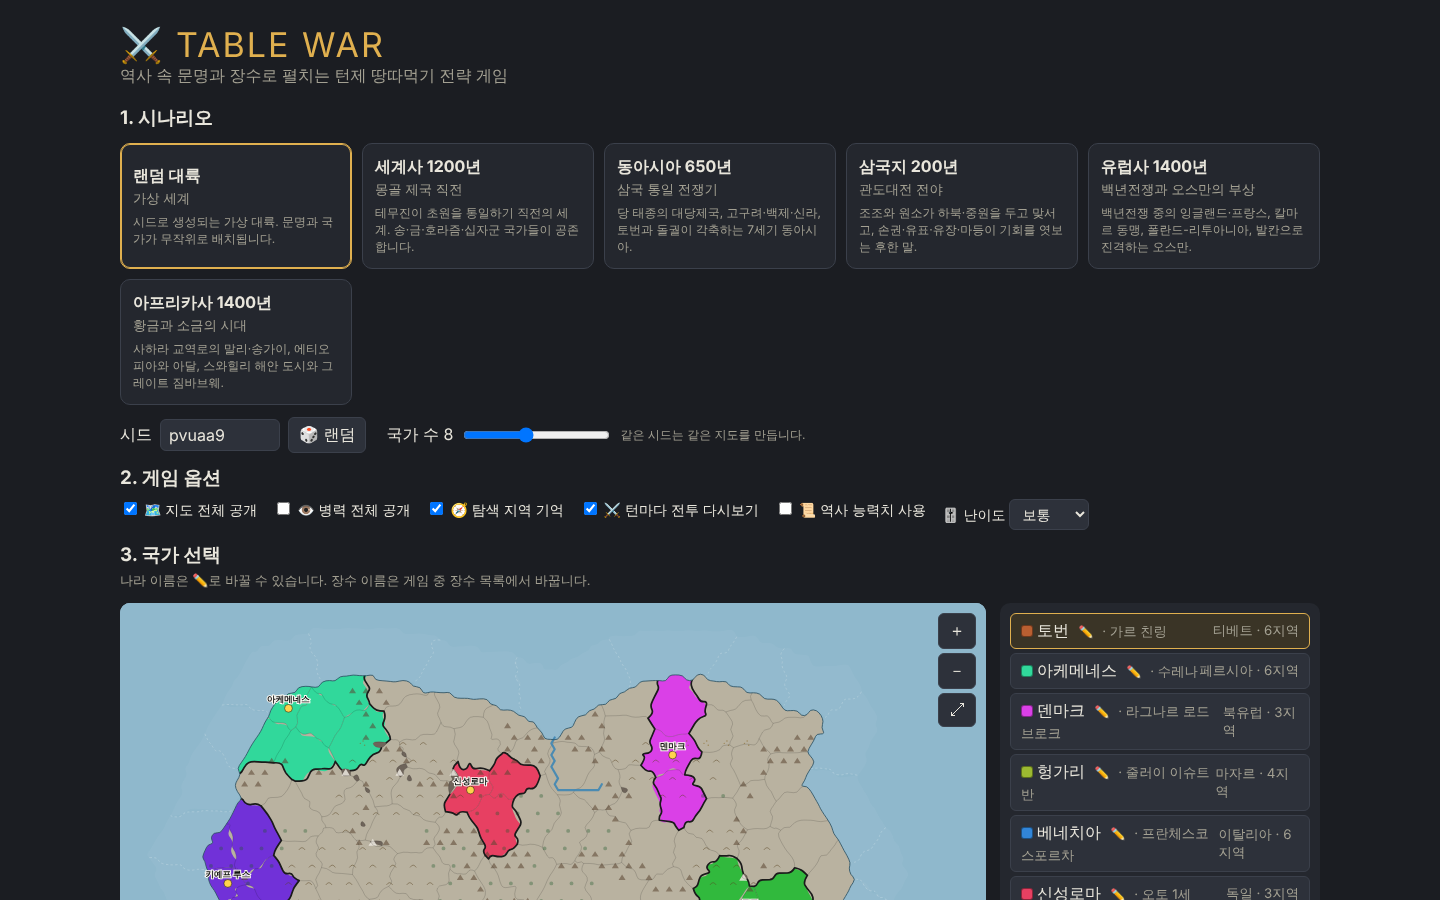
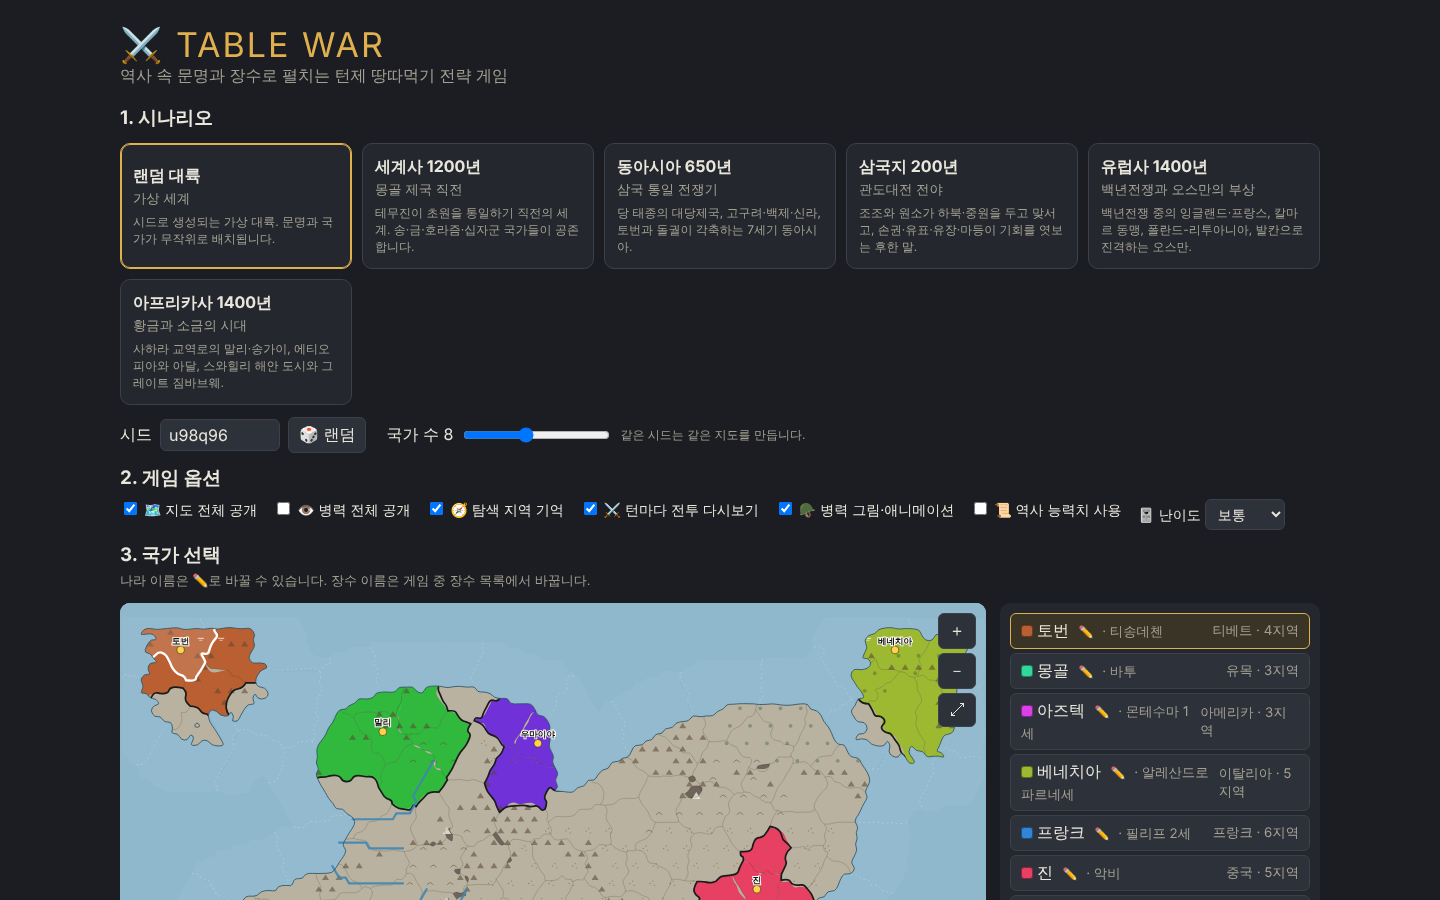
Break world-map stalemate (boxed-in AI breaks treaties, alliance saturation, map-scaled AP cap, coalition gate), troop-size soldier art with idle animation, march/clash/capture animations

diff --git a/src/components/MapView.jsx b/src/components/MapView.jsx
@@ -4,7 +4,125 @@ import { WEATHER } from '../game/weather.js';
 
 const NEUTRAL = '#b9b2a0';
 
-export default function MapView({ world, regions, nations, selected, targets, onClick, onContext, genCount, compact, battles, fmt = (n) => n, view, showTroops, weather, cutSet, focus, flash }) {
+// 병력 규모 단계: 0(없음)~5(대군, 깃발)
+export const armyTier = (t) => (t <= 0 ? 0 : t < 3000 ? 1 : t < 10000 ? 2 : t < 30000 ? 3 : t < 80000 ? 4 : 5);
+
+// 병사 한 명 (발끝이 원점, 위로 그려짐)
+function Soldier({ u, color, x = 0, delay = 0 }) {
+  return (
+    <g transform={`translate(${x},0)`}>
+      <g className="soldier" style={{ animationDelay: `${delay}s` }}>
+        <line x1={u * 0.62} y1={u * 0.1} x2={u * 0.62} y2={-u * 2.35} stroke="#5a4630" strokeWidth={u * 0.13} />
+        <path d={`M${u * 0.47} ${-u * 2.2}L${u * 0.62} ${-u * 2.6}L${u * 0.77} ${-u * 2.2}Z`} fill="#cfd3d6" stroke="#222" strokeWidth={u * 0.05} />
+        <path d={`M${-u * 0.42} ${-u * 1.2}L${u * 0.42} ${-u * 1.2}L${u * 0.55} 0L${-u * 0.55} 0Z`} fill={color} stroke="#fffdf6" strokeWidth={u * 0.3} paintOrder="stroke" />
+        <path d={`M${-u * 0.42} ${-u * 1.2}L${u * 0.42} ${-u * 1.2}L${u * 0.55} 0L${-u * 0.55} 0Z`} fill="none" stroke="#1a1a1a" strokeWidth={u * 0.08} />
+        <circle cy={-u * 1.55} r={u * 0.33} fill="#f1d3a5" stroke="#1a1a1a" strokeWidth={u * 0.08} />
+        <path d={`M${-u * 0.36} ${-u * 1.6}A${u * 0.36} ${u * 0.36} 0 0 1 ${u * 0.36} ${-u * 1.6}Z`} fill="#555" />
+      </g>
+    </g>
+  );
+}
+
+// 병력 규모 그림: 1~4명, 5단계는 군기까지
+export function Army({ tier, color, u, y = 0 }) {
+  if (!tier) return null;
+  const n = Math.min(4, tier);
+  const gap = u * 1.05;
+  const x0 = -((n - 1) * gap) / 2;
+  return (
+    <g transform={`translate(0,${y})`} className="army">
+      <ellipse cy={-u * 0.05} rx={((n - 1) * gap) / 2 + u * (tier >= 5 ? 1.9 : 0.95)} cx={tier >= 5 ? -gap * 0.45 : 0} ry={u * 0.42} fill="#fffdf6" opacity={0.9} stroke={color} strokeWidth={u * 0.12} />
+      {tier >= 5 && (
+        <g transform={`translate(${x0 - gap * 0.9},0)`}>
+          <line y1={u * 0.1} y2={-u * 3.1} stroke="#3b2b1a" strokeWidth={u * 0.15} />
+          <path className="banner" d={`M0 ${-u * 3.1}L${u * 1.3} ${-u * 2.8}L0 ${-u * 2.3}Z`} fill={color} stroke="#1a1a1a" strokeWidth={u * 0.07} />
+        </g>
+      )}
+      {Array.from({ length: n }, (_, i) => (
+        <Soldier key={i} u={u} color={color} x={x0 + i * gap} delay={(i * 0.37) % 1.2} />
+      ))}
+    </g>
+  );
+}
+
+// 이동·공격 애니메이션 층: 지도 전체를 다시 그리지 않도록 자체 상태로 프레임 갱신
+function MoveLayer({ world, nations, moves, visible, outline, s }) {
+  const [tokens, setTokens] = useState([]);
+  const [now, setNow] = useState(0);
+  const last = useRef(null);
+  useEffect(() => {
+    if (!moves) return;
+    const maxId = moves.length ? moves[moves.length - 1].id : 0;
+    if (last.current === null || maxId < last.current) {
+      last.current = maxId; // 처음 열거나 새 게임: 지난 이동은 재생하지 않음
+      return;
+    }
+    const fresh = moves.filter((m) => m.id > last.current && (visible(m.from) || visible(m.to))).slice(-40);
+    last.current = maxId;
+    if (!fresh.length) return;
+    if (typeof window !== 'undefined' && window.matchMedia?.('(prefers-reduced-motion: reduce)').matches) return;
+    const t0 = performance.now();
+    setTokens((ts) => [...ts, ...fresh.map((m, i) => ({ ...m, start: t0 + i * 110 }))]);
+  }, [moves]); // eslint-disable-line react-hooks/exhaustive-deps
+  const active = tokens.length > 0;
+  useEffect(() => {
+    if (!active) return;
+    let raf;
+    const loop = (t) => {
+      setNow(t);
+      setTokens((ts) => {
+        const keep = ts.filter((x) => t - x.start < 1700);
+        return keep.length === ts.length ? ts : keep;
+      });
+      raf = requestAnimationFrame(loop);
+    };
+    raf = requestAnimationFrame(loop);
+    return () => cancelAnimationFrame(raf);
+  }, [active]);
+  const u = s * 0.5;
+  return (
+    <g pointerEvents="none">
+      {tokens.map((m) => {
+        const t = (now - m.start) / 1000;
+        if (t < 0) return null;
+        const a = world.regions[m.from], b = world.regions[m.to];
+        const col = nations[m.n]?.color || '#c00';
+        const p = Math.min(1, t / 0.85);
+        const e = p < 0.5 ? 2 * p * p : 1 - (-2 * p + 2) ** 2 / 2;
+        const x = a.cx + (b.cx - a.cx) * e, y = a.cy + (b.cy - a.cy) * e;
+        const hop = Math.abs(Math.sin(p * Math.PI * 5)) * u * 0.35;
+        const fight = m.k === 'win' || m.k === 'lose' || m.k === 'siege';
+        const after = t - 0.85;
+        return (
+          <g key={m.id}>
+            {p < 1 && (
+              <>
+                <line x1={a.cx} y1={a.cy} x2={x} y2={y} stroke={col} strokeWidth={s * 0.18} strokeDasharray={`${s * 0.3} ${s * 0.3}`} opacity={0.7} />
+                <g transform={`translate(${x},${y - hop})`}>
+                  <ellipse rx={u * 1.6} ry={u * 0.45} fill="#000" opacity={0.25} transform={`translate(0,${hop})`} />
+                  <Army tier={Math.min(3, armyTier(m.c))} color={col} u={u} />
+                  {m.k === 'aid' && <text y={-u * 3} fontSize={s * 0.8} textAnchor="middle">🤝</text>}
+                </g>
+              </>
+            )}
+            {p >= 1 && fight && after < 0.8 && (
+              <g transform={`translate(${b.cx},${b.cy}) scale(${0.6 + after * 1.4})`} opacity={1 - after / 0.8}>
+                <text fontSize={s * 1.8} textAnchor="middle" dy={s * 0.6}>
+                  {m.k === 'lose' ? '🛡' : '💥'}
+                </text>
+              </g>
+            )}
+            {p >= 1 && m.k === 'win' && outline[m.to] && after < 0.85 && (
+              <path d={outline[m.to]} fill={col} fillOpacity={0.45 * (1 - after / 0.85)} fillRule="evenodd" stroke={col} strokeWidth={3} opacity={1 - after / 0.85} />
+            )}
+          </g>
+        );
+      })}
+    </g>
+  );
+}
+
+export default function MapView({ world, regions, nations, selected, targets, onClick, onContext, genCount, compact, battles, fmt = (n) => n, view, showTroops, weather, cutSet, focus, flash, moves, showArmy = true }) {
   const clipId = 'land' + useId().replace(/:/g, '');
   const svgRef = useRef(null);
   const [vb, setVb] = useState([0, 0, world.W, world.H]);
@@ -137,7 +255,7 @@ export default function MapView({ world, regions, nations, selected, targets, on
   }
 
   return (
-    <div className="mapwrap" style={{ height: '100%' }}>
+    <div className={'mapwrap' + (zoomed || world.landCount < 170 ? ' live' : '')} style={{ height: '100%' }}>
       <svg
         ref={svgRef}
         viewBox={vb.join(' ')}
@@ -236,6 +354,7 @@ export default function MapView({ world, regions, nations, selected, targets, on
           {selected !== null && selected !== undefined && world.regions[selected].sea && <path d={statics.outline[selected]} fill="#ffffff22" fillRule="evenodd" stroke="#fff" strokeWidth={3} />}
           {seaLines}
           {arrows}
+          {!compact && moves && showArmy && <MoveLayer world={world} nations={nations} moves={moves} visible={(rid) => viewOf(rid) === 'visible'} outline={statics.outline} s={s} />}
           {!compact &&
             world.regions.map((r) => {
               const reg = regions[r.id];
@@ -273,6 +392,7 @@ export default function MapView({ world, regions, nations, selected, targets, on
               const icons = (b.walls ? `🏰${b.walls < 3 ? b.walls : ''}` : '') + (b.market ? '💰' : '') + (b.port ? '⚓' : '') + (b.barracks ? '⚔' : '');
               return (
                 <g key={r.id} transform={`translate(${r.cx},${r.cy})`}>
+                  {showArmy && own !== null && t !== '?' && <Army tier={armyTier(reg.troops)} color={col} u={s * 0.5} y={-s * 0.78} />}
                   <rect x={-bw / 2} y={-s * 0.8} width={bw} height={s * 1.6} rx={s * 0.8} fill="#fffdf6" stroke={col} strokeWidth={s * 0.22} />
                   {wx && wx.icon && (
                     <text x={-bw / 2 - s * 0.1} dy={-s * 0.75} fontSize={s * 0.75} textAnchor="middle">
@@ -304,7 +424,7 @@ export default function MapView({ world, regions, nations, selected, targets, on
                     </text>
                   )}
                   {zoomed && (
-                    <text dy={-s * 1.25} fontSize={s * 0.62} textAnchor="middle" fill="#111" stroke="#fffdf6" strokeWidth={s * 0.18} paintOrder="stroke">
+                    <text dy={showArmy && own !== null && reg.troops > 0 ? -s * 2.4 : -s * 1.25} fontSize={s * 0.62} textAnchor="middle" fill="#111" stroke="#fffdf6" strokeWidth={s * 0.18} paintOrder="stroke">
                       {reg.name}
                     </text>
                   )}

diff --git a/src/game/engine.js b/src/game/engine.js
@@ -44,7 +44,9 @@ export function isVassalOf(s, a, b) {
 export function computeMaxAp(s, nid) {
   const regions = nationRegions(s, nid).length;
   const fast = Math.min(2, nationTrait(s, nid, '신속'));
-  let ap = 3 + Math.min(7, Math.floor(regions / 6)) + fast;
+  // 큰 지도(지역이 잘게 나뉨)는 행동력 상한도 비례해서 늘림
+  const cap = Math.round(7 * Math.max(1, landCount(s) / 150));
+  let ap = 3 + Math.min(cap, Math.floor(regions / 6)) + fast;
   if (s.nations.some((o) => o.alive && o.id !== nid && isVassalOf(s, nid, o.id))) ap -= 1;
   return Math.max(2, ap);
 }
@@ -492,6 +494,13 @@ export function gainExp(s, g, amt) {
   }
 }
 
+// 지도 애니메이션용 이동 기록 (턴마다 초기화)
+function trackMove(s, from, to, nid, count, kind) {
+  s.moveSeq = (s.moveSeq || 0) + 1;
+  (s.moves = s.moves || []).push({ id: s.moveSeq, from, to, n: nid, c: count, k: kind });
+  if (s.moves.length > 200) s.moves.shift();
+}
+
 export function doMove(s, world, nid, from, to, count, genIds = [], opts = {}) {
   const err = moveCheck(s, world, nid, from, to, count, genIds);
   if (err) return fail(err);
@@ -508,6 +517,7 @@ export function doMove(s, world, nid, from, to, count, genIds = [], opts = {}) {
     tr.troops += count;
     s.opinion[tr.owner][nid] += Math.min(20, count / 2000);
     log(s, `🤝 ${n.name}이(가) 동맹국 ${s.nations[tr.owner].name}의 ${tr.name}에 원군 ${fmtTroops(count)}을 보냈습니다.`, [nid, tr.owner], 'diplo');
+    trackMove(s, from, to, nid, count, 'aid');
     return { ok: true, msg: `${tr.name}에 원군 ${fmtTroops(count)} 파견.` };
   }
   const leaveSea = () => {
@@ -529,6 +539,7 @@ export function doMove(s, world, nid, from, to, count, genIds = [], opts = {}) {
     }
     leaveSea();
     const verb = tr.sea && !fr.sea ? '승선' : fr.sea && !tr.sea ? '상륙' : '이동';
+    trackMove(s, from, to, nid, count, 'move');
     return { ok: true, msg: `${fr.name} → ${tr.name}: 병사 ${fmtTroops(count)} ${verb}.` };
   }
   const defender = tr.owner;
@@ -593,6 +604,7 @@ export function doMove(s, world, nid, from, to, count, genIds = [], opts = {}) {
       s.opinion[defender][nid] -= 15;
       for (const o of s.nations) if (o.alive && isVassalOf(s, defender, o.id) && o.id !== nid) s.opinion[o.id][nid] -= 10;
     }
+    trackMove(s, from, to, nid, count, kind);
     return { ok: true, msg, report };
   };
   const assaultLoss = mode === 'assault' ? (tv(atkGens, '공성') && atkGens.some((g) => g.traits.some(([t, l]) => t === '공성' && l >= 2)) ? 1.05 : 1.5) : 1;

diff --git a/src/game/ai.js b/src/game/ai.js
@@ -5,7 +5,7 @@ import {
   buildCost, recruitChance, moveCheck, doRecruit, doExecute, doRelease, log, conscriptMax, conscriptCost, doRelief, reliefCost,
   RELIEF_COOLDOWN, doBuildEngine, engineCost, ENGINE_MAX, canSail, income, isVassalOf, governorOf, doRelocate,
 } from './engine.js';
-import { evaluateDeal, applyDeal, validateDeal, emptyDeal, describeDeal, annexCheck, doAnnex } from './diplomacy.js';
+import { evaluateDeal, applyDeal, validateDeal, emptyDeal, describeDeal, annexCheck, doAnnex, breakTreaty } from './diplomacy.js';
 
 const inCoalition = (s, id) => s.coalition && s.coalition.members?.includes(id);
 
@@ -425,9 +425,35 @@ function seekCoalition(s, world, nid, rng) {
   return true;
 }
 
+// 사방이 동맹·조약으로 막혀 칠 곳이 없으면, 가장 만만한 조약 이웃과 관계를 끊고 확장
+function breakOut(s, world, nid, rng) {
+  const n = s.nations[nid];
+  if (s.turn < 15 || n.isPlayer) return false;
+  const nbs = new Map();
+  let open = 0;
+  for (const r of nationRegions(s, nid)) for (const x of world.regions[r].neighbors) {
+    const t = s.regions[x.id];
+    if (t.sea || t.owner === nid) continue;
+    if (t.owner === null || hostile(s, nid, t.owner)) open++;
+    else nbs.set(t.owner, (nbs.get(t.owner) || 0) + 1);
+  }
+  if (open > 0 || !nbs.size || !rng.chance(0.35)) return false;
+  // 속국은 병합 대상이므로 제외, 국력이 가장 약한 조약국을 고름
+  const cands = [...nbs.keys()].filter((o) => !s.nations[o].isPlayer && getRel(s, nid, o).type !== 'vassal' && !(inCoalition(s, nid) && inCoalition(s, o)));
+  if (!cands.length) return false;
+  const o = cands.reduce((a, b) => (nationPower(s, b) < nationPower(s, a) ? b : a));
+  if (nationPower(s, o) > nationPower(s, nid) * 1.1) return false;
+  breakTreaty(s, nid, o);
+  s.opinion[nid][o] = Math.min(s.opinion[nid][o], -30);
+  n.goal = o;
+  n.goalSince = s.turn;
+  return true;
+}
+
 export function aiDiplomacy(s, world, nid) {
   const rng = stateRng(s);
   const n = s.nations[nid];
+  if (breakOut(s, world, nid, rng)) return;
   if (seekCoalition(s, world, nid, rng)) return;
   if (!rng.chance(0.18)) return;
   const others = s.nations.filter((o) => o.alive && o.id !== nid);

diff --git a/src/components/Modals.jsx b/src/components/Modals.jsx
@@ -787,10 +787,10 @@ export function HelpModal({ onClose }) {
     <Modal title="❓ 게임 방법" onClose={onClose} wide>
       <div className="help">
         <ul>
-          <li><b>목표</b>: 전체 육지의 60%(세계사 35%, 동아시아 50%)를 차지하거나 다른 모든 나라를 멸망·속국화하세요.</li>
+          <li><b>목표</b>: 전체 육지의 60%(세계사 35%, 동아시아 45%)를 차지하거나 다른 모든 나라를 멸망·속국화하세요.</li>
           <li><b>지역 숫자</b> = 주둔 병사 수. ♛ 수도, ★ 장수, 🏰💰⚓⚔ 건물, ✂ 보급 끊김, 빨간 점 반란 위험.</li>
           <li><b>시간</b>: 2턴이 한 계절, 8턴이 1년. 날씨는 매 턴 바뀝니다.</li>
-          <li><b>행동력(AP)</b>: 매 턴 3 + 영토 6곳당 1(최대 +7) + 신속 특성. 속국 -1, 배신 시 다음 턴 -2.</li>
+          <li><b>행동력(AP)</b>: 매 턴 3 + 영토 6곳당 1(최대 +7, 큰 지도는 더 많음) + 신속 특성. 속국 -1, 배신 시 다음 턴 -2.</li>
           <li><b>이동·공격</b>: 내 지역 선택 → [이동·공격] 또는 M → 인접 지역 클릭(우클릭으로 바로 열기). 육지는 최소 1명을 남겨야 합니다.</li>
           <li><b>바다</b>: 바다는 구역(점선)으로 나뉩니다. 항구(또는 수군 장수)가 있는 해안에서 승선 → 바다 구역을 한 칸씩 항해 → 해안에 상륙(-25%). 험한 해안은 절벽 상륙(-55%, 행동력 +1). 바다 날씨: 풍랑·순풍·용오름·해무·폭풍. 적 함대가 있는 구역은 해전으로 뚫어야 하고, 함대로 바닷길을 막을 수 있습니다. 바다의 함대는 매 턴 2%(폭풍 10%) 줄어듭니다. 내 함대가 있는 바다는 보급로가 됩니다.</li>
           <li><b>지형</b>: 숲 방어 +15%, 구릉 +25%, 험산 +50%·진입 AP+1, 고산(진한 회색)은 통행 불가. 강 건너 공격 -20%, 좁은 해협(도버·보스포루스 등) 건너기 -30%·AP+1.</li>

diff --git a/src/components/Setup.jsx b/src/components/Setup.jsx
@@ -17,7 +17,7 @@ export default function Setup({ onStart, onResume, hasSave }) {
   const [nationCount, setNationCount] = useState(8);
   const [player, setPlayer] = useState(0);
   const [error, setError] = useState('');
-  const [rules, setRules] = useState({ revealMap: true, revealTroops: false, rememberExplored: true, showBattles: true, histStats: false, difficulty: 'normal' });
+  const [rules, setRules] = useState({ revealMap: true, revealTroops: false, rememberExplored: true, showBattles: true, showArmy: true, histStats: false, difficulty: 'normal' });
   const [names, setNames] = useState({});
   const achieved = useMemo(loadAchievements, []);
   const scn = SCENARIOS.find((s) => s.id === scnId);
@@ -102,6 +102,7 @@ export default function Setup({ onStart, onResume, hasSave }) {
             ['revealTroops', '👁 병력 전체 공개', '끄면 시야 밖 지역의 병력은 ?로 표시'],
             ['rememberExplored', '🧭 탐색 지역 기억', '한 번 본 땅은 계속 지도에 표시 (지도 전체 공개를 껐을 때)'],
             ['showBattles', '⚔ 턴마다 전투 다시보기', '시야 안에서 벌어진 전투만, 건너뛰기 가능'],
+            ['showArmy', '🪖 병력 그림·애니메이션', '병력 규모에 따라 병사 그림(1~4명, 대군은 군기)을 보여주고 이동을 애니메이션으로 표시'],
             ['histStats', '📜 역사 능력치 사용', '끄면(기본) 장수 성향만 살리고 능력치는 나라마다 공평하게 무작위'],
           ].map(([k, label, tip]) => (
             <label key={k} title={tip}>

diff --git a/src/game/turn.js b/src/game/turn.js
@@ -57,7 +57,7 @@ function balanceOfPower(s, world) {
   if ((s.coalitionCooldown || 0) > s.turn) return;
   // 나라가 많은 지도에서 작은 1위에게까지 대동맹이 생기지 않도록 영토 비율 문턱(통일선의 40%)도 둠
   const topShare = nationRegions(s, top.id).length / landCount(s);
-  if (threat(top.id) > (s.turn >= 30 ? 2.1 : 2.5) && topShare >= (s.winShare || 0.6) * 0.4) {
+  if (threat(top.id) > (s.turn >= 30 ? 2.1 : 2.5) && topShare >= Math.max(0.2, (s.winShare || 0.6) * 0.4)) {
     if (prev !== top.id) {
       s.coalition = { target: top.id, since: s.turn };
       log(s, `⚔ ${top.name}의 패권에 맞서 대동맹이 결성되었습니다! 각국이 ${top.name}을(를) 공동의 적으로 삼습니다.`, s.nations.map((x) => x.id), 'diplo');
@@ -228,6 +228,7 @@ export function endTurn(s, world) {
   s.turnNews = [];
   s.turnEvents = [];
   s.battles = [];
+  s.moves = [];
   const rng = stateRng(s);
   const order = rng.shuffle(s.nations.filter((n) => n.alive && !n.isPlayer).map((n) => n.id));
   for (const id of order) {

diff --git a/src/styles.css b/src/styles.css
@@ -183,3 +183,10 @@ button.ghost { background: transparent; border-color: transparent; padding: 0 4p
 
 .flash { animation: flash 0.9s ease-in-out 6 alternate; pointer-events: none; }
 @keyframes flash { from { opacity: 1; } to { opacity: 0.15; } }
+
+/* 병사 그림: 제자리에서 살짝 들썩임, 군기는 펄럭임 */
+.live .soldier { animation: bob 1.2s ease-in-out infinite; transform-box: fill-box; transform-origin: bottom center; }
+@keyframes bob { 0%, 100% { transform: translateY(0); } 50% { transform: translateY(-6%); } }
+.live .banner { animation: wave 1.6s ease-in-out infinite; transform-box: fill-box; transform-origin: left center; }
+@keyframes wave { 0%, 100% { transform: skewY(0deg) scaleX(1); } 50% { transform: skewY(8deg) scaleX(0.85); } }
+@media (prefers-reduced-motion: reduce) { .live .soldier, .live .banner, .flash { animation: none; } }

diff --git a/src/game/diplomacy.js b/src/game/diplomacy.js
@@ -97,6 +97,9 @@ export function evaluateDeal(s, world, from, to, deal) {
       const nbTo = adjacentNations(s, world, to), nbFrom = adjacentNations(s, world, from);
       const big = s.nations.some((o) => o.alive && o.id !== to && o.id !== from && nbTo.has(o.id) && nbFrom.has(o.id) && nationPower(s, o.id) > Math.max(P, Q) * 1.3);
       if (big) v += 30;
+      // 이미 동맹이 많으면 더 묶이기 싫다(칠 곳이 사라짐)
+      const allies = s.nations.filter((o) => o.alive && o.id !== to && getRel(s, to, o.id).type === 'alliance').length;
+      v -= allies * 12;
       break;
     }
     case 'nap':

diff --git a/src/components/Game.jsx b/src/components/Game.jsx
@@ -291,6 +291,8 @@ export default function Game({ world, scn, game, setGame, onExit }) {
             cutSet={cutSet}
             focus={replay ? replay.list[replay.i].to : null}
             flash={flashSet}
+            moves={game.moves}
+            showArmy={game.opts?.showArmy !== false}
             onClick={onRegionClick}
             onContext={onRegionContext}
           />

diff --git a/src/game/scenarios.js b/src/game/scenarios.js
@@ -57,7 +57,7 @@ export const SCENARIOS = [
   },
   {
     id: 'eastasia650',
-    winShare: 0.5,
+    winShare: 0.45,
     startYear: 650,
     name: '동아시아 650년',
     era: '삼국 통일 전쟁기',

diff --git a/README.md b/README.md
@@ -29,7 +29,9 @@ npm run build   # dist/ 정적 빌드
 - **정전**: 6턴 휴전. 땅을 잃는 쪽이 원하고, 후반 1위는 거부.
 - **난이도**: 쉬움/보통/어려움 — 컴퓨터 세수 -15%/0/+20%, 초기 병력 85%/100%/120%.
 - **업적 10종 · 승리 요약**: 영토 추이 그래프, 최다 전공 장수, 주요 사건.
-- **통일선**: 기본 60%, 세계사 35%, 동아시아 50%.
+- **통일선**: 기본 60%, 세계사 35%, 동아시아 45%.
+- **교착 방지**: 사방이 동맹·조약으로 막힌 컴퓨터는 가장 약한 조약 이웃과 관계를 끊고 확장. 동맹이 많을수록 새 동맹을 꺼림. 큰 지도는 행동력 상한이 지도 크기에 비례.
+- **병력 그림·애니메이션**: 병력 규모별 병사 1~4명(8만↑은 군기), 대기 중 들썩임. 이동·공격하면 부대가 행군하고, 전투 지점에 💥, 점령 시 지역이 국가색으로 번쩍임. 설정에서 끌 수 있음.
 - **후반 패권 경쟁**: 35턴 이후 1위(육지 22%↑)는 행동력 +1~2·적극 징병·불가침 파기까지 하며 공세. 대동맹은 30턴 이후 더 쉽게 결성되고, 연합군 공격 +10%·후방국 군자금 지원으로 역전 가능. 20턴 지나면 내분으로 와해(10턴 재결성 불가).
 - **원군**: 동맹국 땅으로 병사(장수 제외)를 보내 넘겨줄 수 있음. AI도 위협받는 동맹국에 원군 파견.
 - **망국의 왕**: 정복·병합으로 멸망한 나라의 군주는 승자의 장수로 귀순.
